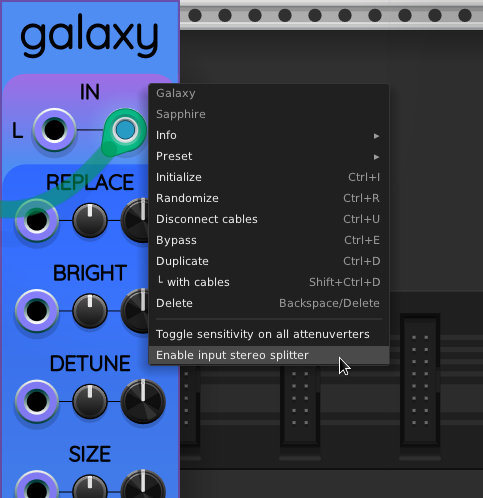
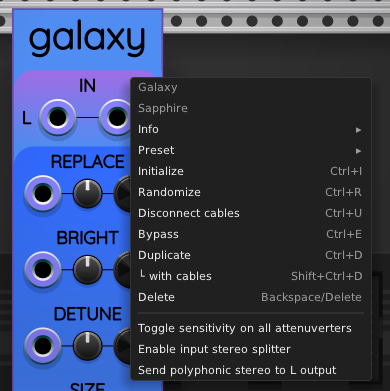
Updated documentation for Gravy and Galaxy.

diff --git a/Galaxy.md b/Galaxy.md
@@ -2,8 +2,7 @@
 
 ![Galaxy](images/galaxy.png)
 
-Galaxy is a stereo reverb filter, and is a clone of the Airwindows Galactic
-algorithm by [Chris Johnson](https://github.com/airwindows/airwindows).
+Galaxy is a clone of the Airwindows Galactic stereo reverb by [Chris Johnson](https://github.com/airwindows/airwindows).
 
 Galactic is also available for VCV Rack in the consolidated
 [Airwindows Suite](https://library.vcvrack.com/Airwin2Rack/Airwin2Rack)
@@ -12,13 +11,22 @@ along with many other filters and effects, all combined into one module.
 My automatic unit tests verify that Sapphire Galaxy and Airwindows Galactic
 produce identical output when given the same settings and stereo audio inputs.
 
-Galaxy is intended as a stepping stone toward future Sapphire projects that are still in the brainstorming stage.
-
 ### Demo videos
 
 [![Eons Unfolding](https://img.youtube.com/vi/PVh3mgTHYFk/0.jpg)](https://www.youtube.com/watch?v=PVh3mgTHYFk)
 
-### Inputs and Outputs
+### Control groups
+
+Let us call the combination of a larger parameter knob, a smaller attenuverter knob,
+and a CV input port a *control group*. Galaxy includes the following control groups:
+
+* **REPLACE**: The fraction of the reverb's energy that should be replaced by each input sample. If you set REPLACE to 0, it "freezes" the contents of the reverb tanks indefinitely. If you set REPLACE to 1, new audio input quickly replaces the contents of the reverb tanks.
+* **BRIGHT**: Adjusts treble by changing the cutoff frequency of an internal low-pass filter in the reverberated signal.
+* **DETUNE**: Adds different amounts of stereo phase distortion between the left and right output channels. Lower values sound "purer" but also flatter in the stereo field. Higher values sound more dissonant. Somewhere between can provide a nice chorus effect with a lush stereo field.
+* **SIZE**: Adjusts the reverb tank sizes. **NOTE**: You might not want to adjust SIZE during a performance, because there is a noticeable zipper noise. People usually experimentally determine a size for their performance and leave it there. (Don says: *Yes, I have tried to fix the zipper noise, and no, I haven't figured out how yet. Sigh.*)
+* **MIX**: Galaxy's outputs result from a linear mix of the reverberator's output and the original input. The MIX knob adjusts what fraction of the output is from the reverb tanks. If you set MIX to 0, the output is the same as the input (delayed by one sample). If you set MIX to 1, the output is entirely derived from the reverb tanks. Lower values work well for adding ambience to a foreground voice or percussion. Higher values work well for creating synth pads or choir effects.
+
+### Inputs and outputs
 
 Galaxy has two audio input ports at the top of the panel, L and R.
 
@@ -38,13 +46,21 @@ Polyphonic input cables are summed across channels to provide
 a monophonic input signal for the port they are plugged into.
 This is true for the two audio input ports and all 5 CV input ports.
 
-Galaxy's left and right audio output ports are each monophonic.
+Galaxy's left and right audio output ports are each monophonic by default,
+but there is a [polyphonic output](#send-polyphonic-stereo-to-l-output) option.
 
-### Stereo splitter option
+### Context menu
 
 The right-click context menu for Galaxy looks like this:
 
 ![Galaxy menu](images/galaxy_menu.png)
+
+### Toggle sensitivity on all attenuverters
+
+Galaxy supports [low-sensitivity attenuverters](LowSensitivityAttenuverterKnobs.md).
+This option toggles the sensitivity mode on all the attenuverter knobs.
+
+### Stereo splitter option
 
 The option "Enable input stereo splitter" overrides the audio input behavior
 described above, but only when a polyphonic cable is connected to either
@@ -58,17 +74,13 @@ The purpose of this option is to support a stereo input provided by a single
 cable, which can eliminate the need for a dedicated splitter module between
 the signal and Galaxy.
 
-### Control groups
+### Send polyphonic stereo to L output
 
-Let us call the combination of a larger parameter knob, a smaller attenuverter knob,
-and a CV input port a *control group*. Galaxy includes the following control groups:
+When checked, this option causes stereo output to go to the L output only.
+The output is polyphonic with 2 channels, with channel 0 as the left
+output and channel 1 as the right output.
 
-* **REPLACE**: The fraction of the reverb's energy that should be replaced by each input sample. If you set REPLACE to 0, it "freezes" the contents of the reverb tanks indefinitely. If you set REPLACE to 1, new audio input quickly replaces the contents of the reverb tanks.
-* **BRIGHT**: Adjusts treble by changing the cutoff frequency of an internal low-pass filter in the reverberated signal.
-* **DETUNE**: Adds different amounts of stereo phase distortion between the left and right output channels. Lower values sound "purer" but also flatter in the stereo field. Higher values sound more dissonant. Somewhere between can provide a nice chorus effect with a lush stereo field.
-* **SIZE**: Adjusts the reverb tank sizes. **NOTE**: You might not want to adjust SIZE during a performance, because there is a noticeable zipper noise. People usually experimentally determine a size for their performance and leave it there. (Don says: *Yes, I have tried to fix the zipper noise, and no, I haven't figured out how yet. Sigh.*)
-* **MIX**: Galaxy's outputs result from a linear mix of the reverberator's output and the original input. The MIX knob adjusts what fraction of the output is from the reverb tanks. If you set MIX to 0, the output is the same as the input (delayed by one sample). If you set MIX to 1, the output is entirely derived from the reverb tanks. Lower values work well for adding ambience to a foreground voice or percussion. Higher values work well for creating synth pads or choir effects.
+Enabling polyphonic stereo output causes the output port labels to change from "L" and "R"
+to a "2" displayed on the left output port only.
 
-### Low-sensitivity attenuverters
-
-Galaxy supports [low-sensitivity attenuverters](LowSensitivityAttenuverterKnobs.md).
+![Stereo output label](images/poly_stereo_out.png)

diff --git a/Gravy.md b/Gravy.md
@@ -2,9 +2,13 @@
 
 ![Gravy](images/gravy.png)
 
+Gravy is a stereophonic state-variable filter as described in the following paper by Andrew Simper (Cytomic). See page 6 of that paper for the equations used in Gravy.
+
+> https://cytomic.com/files/dsp/SvfLinearTrapOptimised2.pdf
+
 ### Controls
 
-Gravy is a stereo filter that provides control over the following parameters:
+Gravy provides control over the following parameters:
 
 * **FREQ**: the filter's corner frequency. The default setting is 0, which corresponds to the note C5 = 523.251&nbsp;Hz. Each unit on the FREQ dial represents an octave. The dial spans &pm;5 octaves around the note C5.
 * **RES**: the filter's resonance, on a scale from 0 (the default) to 1. Higher resonance causes the filter to concentrate the passband closer in to the corner frequency. Toward the upper end of the resonance scale, you can even get sustained oscillations, also known as "ringing".
@@ -23,12 +27,12 @@ When you right-click on the Gravy panel, you will see the following context menu
 
 ![Gravy context menu](images/gravy_menu.png)
 
-The options are:
+### Toggle sensitivity on all attenuverters
 
-* **Toggle sensitivity on all attenuverters.** Gravy supports a [low-sensitivity](LowSensitivityAttenuverterKnobs.md) option for each attenuverter. This option toggles all the attenuverters at the same time, as described in the linked document.
-* **Enable input stereo splitter.** See [Inputs and Outputs](#inputs-and-outputs) and [Stereo splitter option](#stereo-splitter-option).
+Gravy supports [low-sensitivity attenuverters](LowSensitivityAttenuverterKnobs.md).
+This option toggles the sensitivity mode on all the attenuverter knobs.
 
-### Inputs and Outputs
+### Inputs and outputs
 
 Gravy has two audio input ports at the top of the panel, L and R.
 
@@ -60,12 +64,21 @@ If the single audio input cable has 2 or more channels, and the stereo splitter
 option is enabled, the cable's first channel is sent to the left input and its second
 channel is sent to the right input. Any remaining channels are ignored.
 
+To confirm that the stereo splitter is actually operational, the "L" and "R"
+input port labels are replaced by a single "2" label on whichever input
+port is connected to the polyphonic input cable.
+
 The purpose of this option is to support a stereo input provided by a single
 cable, which can eliminate the need for a dedicated splitter module between
 the signal and Gravy.
 
-### Algorithm
+### Send polyphonic stereo to L output
 
-Gravy is a state-variable filter as described in the following paper by Andrew Simper (Cytomic). See page 6 of that paper for the equations used in Gravy.
+When checked, this option causes stereo output to go to the L output only.
+The output is polyphonic with 2 channels, with channel 0 as the left
+output and channel 1 as the right output.
 
-> https://cytomic.com/files/dsp/SvfLinearTrapOptimised2.pdf
+Enabling polyphonic stereo output causes the output port labels to change from "L" and "R"
+to a "2" displayed on the left output port only.
+
+![Stereo output label](images/poly_stereo_out.png)
